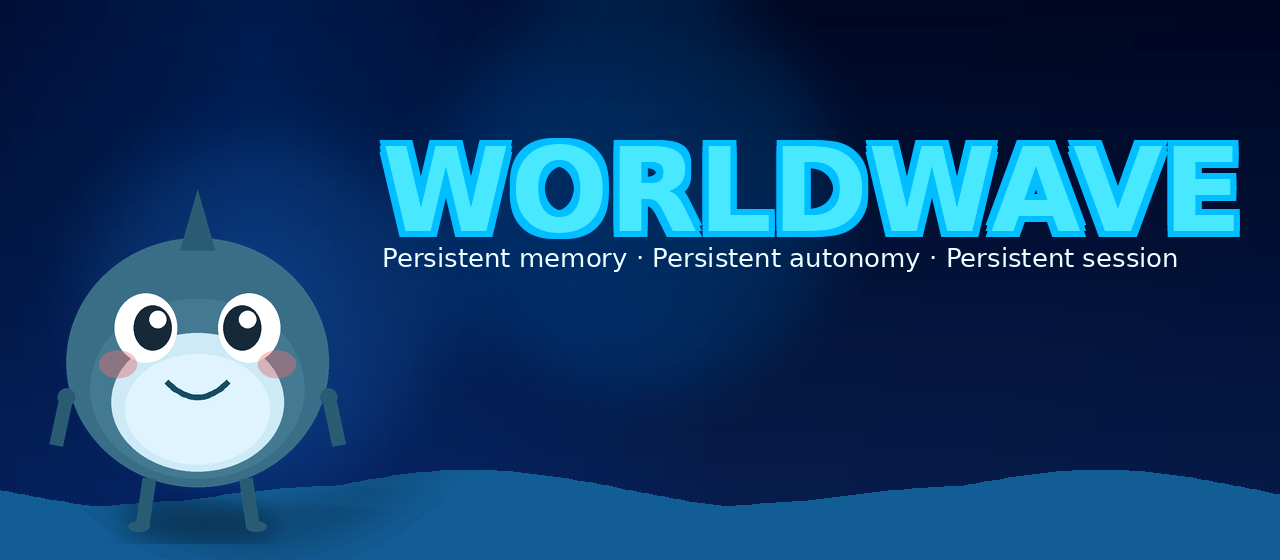
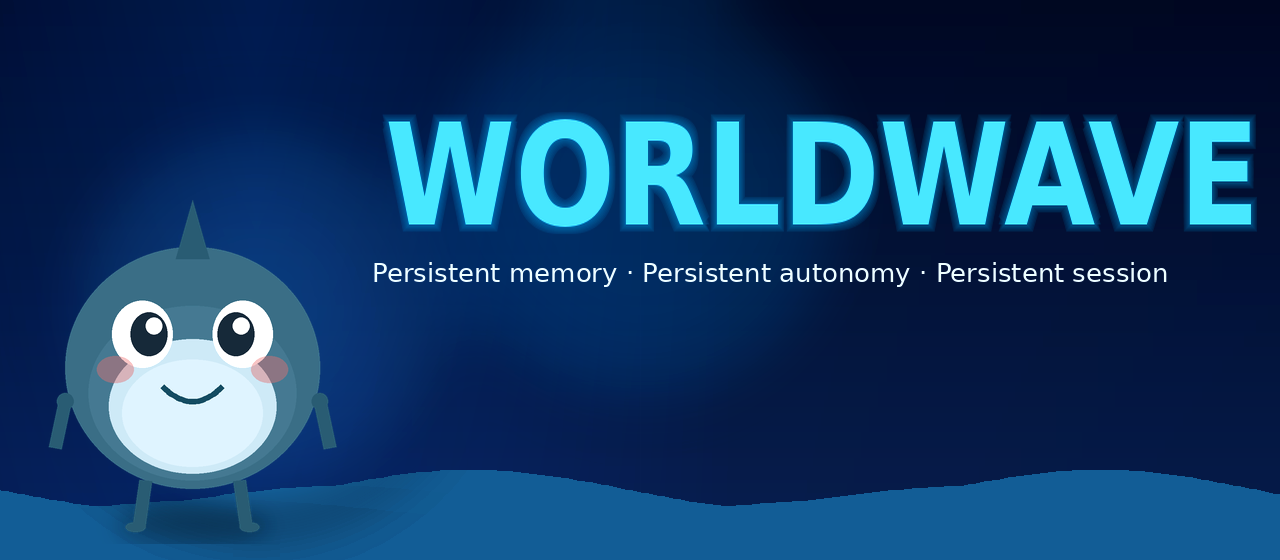
Hero: stretch WORLDWAVE vertically +20%

diff --git a/scripts/_render_hero.py b/scripts/_render_hero.py
@@ -65,23 +65,33 @@ def make_bg(w: int, h: int) -> Image.Image:
     return Image.alpha_composite(base, glow)
 
 
-def draw_title_bold_glow(draw: ImageDraw.ImageDraw, xy, text, fnt) -> None:
-    """4eb37ba style: multi-pass electric glow + #50DCFF fill."""
-    x, y = xy
+def render_title_layer(text: str, fnt, v_stretch: float = 1.20) -> Image.Image:
+    """Render title with glow, then stretch vertically (width unchanged)."""
+    dummy = ImageDraw.Draw(Image.new("RGBA", (8, 8)))
+    bb = dummy.textbbox((0, 0), text, font=fnt)
+    pad = 16  # room for glow
+    tw, th = int(bb[2] - bb[0]), int(bb[3] - bb[1])
+    layer = Image.new("RGBA", (tw + pad * 2, th + pad * 2), (0, 0, 0, 0))
+    d = ImageDraw.Draw(layer)
+    ox, oy = int(pad - bb[0]), int(pad - bb[1])
     glow_rgb = (0, 180, 255)
     fill = (80, 220, 255, 255)  # #50DCFF
     glow_r = 6
     for r in range(glow_r, 0, -1):
         a = int(25 + (glow_r - r) * 12)
         for dx, dy in [(-r, 0), (r, 0), (0, -r), (0, r), (-r, -r), (r, r), (-r, r), (r, -r)]:
-            draw.text((x + dx, y + dy), text, font=fnt, fill=(*glow_rgb, min(255, a)))
-    draw.text((x, y), text, font=fnt, fill=fill)
+            d.text((ox + dx, oy + dy), text, font=fnt, fill=(*glow_rgb, min(255, a)))
+    d.text((ox, oy), text, font=fnt, fill=fill)
+    if abs(v_stretch - 1.0) > 1e-3:
+        nw, nh = layer.width, max(1, int(round(layer.height * v_stretch)))
+        layer = layer.resize((nw, nh), Image.Resampling.LANCZOS)
+    return layer
 
 
 def compose(w: int, h: int, out_path: Path) -> None:
     bg = make_bg(w, h)
     sh = shark.copy()
-    target_h = int(h * 0.68)
+    target_h = int(h * 0.66)
     ratio = target_h / sh.height
     sh = sh.resize((max(1, int(sh.width * ratio)), target_h), Image.Resampling.LANCZOS)
     sx = int(w * 0.02)
@@ -91,27 +101,34 @@ def compose(w: int, h: int, out_path: Path) -> None:
     draw = ImageDraw.Draw(bg)
     title = "WORLDWAVE"
     margin_r = 28
-    # left shift ~10% from classic 0.36w zone
+    V_STRETCH = 1.20  # 上下拉长 20%
     base_left = max(int(w * 0.36), sx + sh.width - 10)
     text_left = max(sx + sh.width + int(w * 0.01), int(base_left - 0.10 * w))
     max_w = w - text_left - margin_r
 
-    # 4eb37ba was ~106; keep large, fit bold metrics
-    size = int(h * 0.30)
+    # Fit bold metrics; allow taller after vertical stretch
+    size = int(h * 0.28)
     dummy = ImageDraw.Draw(Image.new("RGB", (8, 8)))
     while size >= 40:
         f = font(BOLD, size)
         bb = dummy.textbbox((0, 0), title, font=f)
         tw, th = bb[2] - bb[0], bb[3] - bb[1]
-        if tw <= max_w and th <= int(h * 0.48):
+        if tw <= max_w and int(th * V_STRETCH) <= int(h * 0.52):
             break
         size -= 2
     title_font = font(BOLD, size)
-    bb = dummy.textbbox((0, 0), title, font=title_font)
-    tw, th = bb[2] - bb[0], bb[3] - bb[1]
-    tx, ty = text_left, int(h * 0.22)
-
-    draw_title_bold_glow(draw, (tx, ty), title, title_font)
+    title_layer = render_title_layer(title, title_font, v_stretch=V_STRETCH)
+    tw, th = title_layer.width, title_layer.height
+    # if width (incl pad) exceeds, crop is fine; position by content
+    tx = text_left
+    ty = int(h * 0.18)
+    # keep inside canvas
+    if tx + tw > w - 4:
+        # trim left pad visually by shifting
+        tx = max(0, w - 4 - tw)
+    if ty + th > h - 80:
+        ty = max(8, h - 80 - th)
+    bg.paste(title_layer, (tx, ty), title_layer)
 
     sub = "Persistent memory · Persistent autonomy · Persistent session"
     sub_size = max(16, int(h * 0.048))
@@ -123,18 +140,19 @@ def compose(w: int, h: int, out_path: Path) -> None:
         sub_size -= 1
     sub_font = font(REG, sub_size)
     sw = dummy.textbbox((0, 0), sub, font=sub_font)[2] - dummy.textbbox((0, 0), sub, font=sub_font)[0]
-    sty = ty + th + int(h * 0.055)
-    draw.text((tx, sty), sub, font=sub_font, fill=(230, 245, 255, 255))
+    sty = ty + th + int(h * 0.02)
+    draw.text((text_left, sty), sub, font=sub_font, fill=(230, 245, 255, 255))
 
-    assert tx + tw <= w - 4, (tx, tw, w)
-    assert tx + sw <= w - 4, (tx, sw, w)
+    assert text_left + sw <= w - 4, (text_left, sw, w)
 
     out = bg.convert("RGB")
     out = ImageEnhance.Contrast(out).enhance(1.06)
     out = ImageEnhance.Color(out).enhance(1.08)
     out.save(out_path, "PNG", optimize=True)
-    print(f"wrote {out_path} size={size} tx={tx} ({tx/w:.1%}) tw={tw} font=DejaVuBold#50DCFF")
-
+    print(
+        f"wrote {out_path} size={size} v_stretch={V_STRETCH} "
+        f"title_px=({tw}x{th}) tx={tx} font=DejaVuBold#50DCFF"
+    )
 
 if __name__ == "__main__":
     compose(1280, 560, assets / "banner.png")